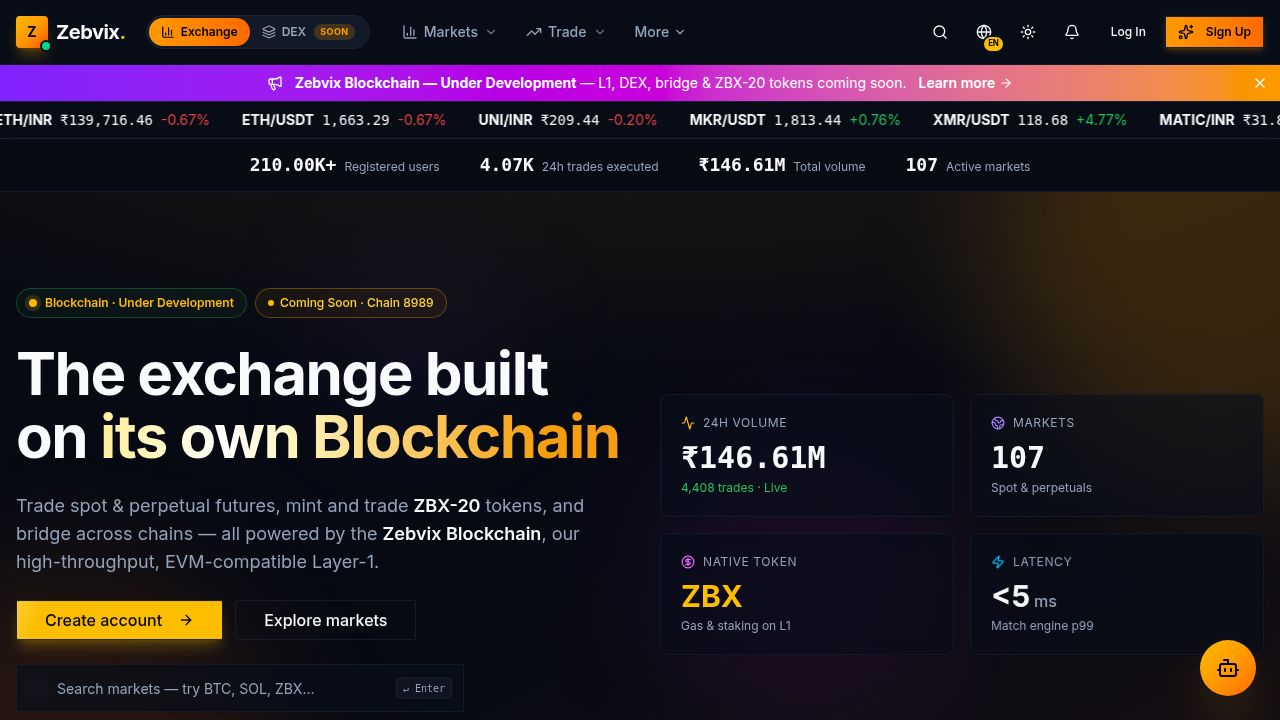
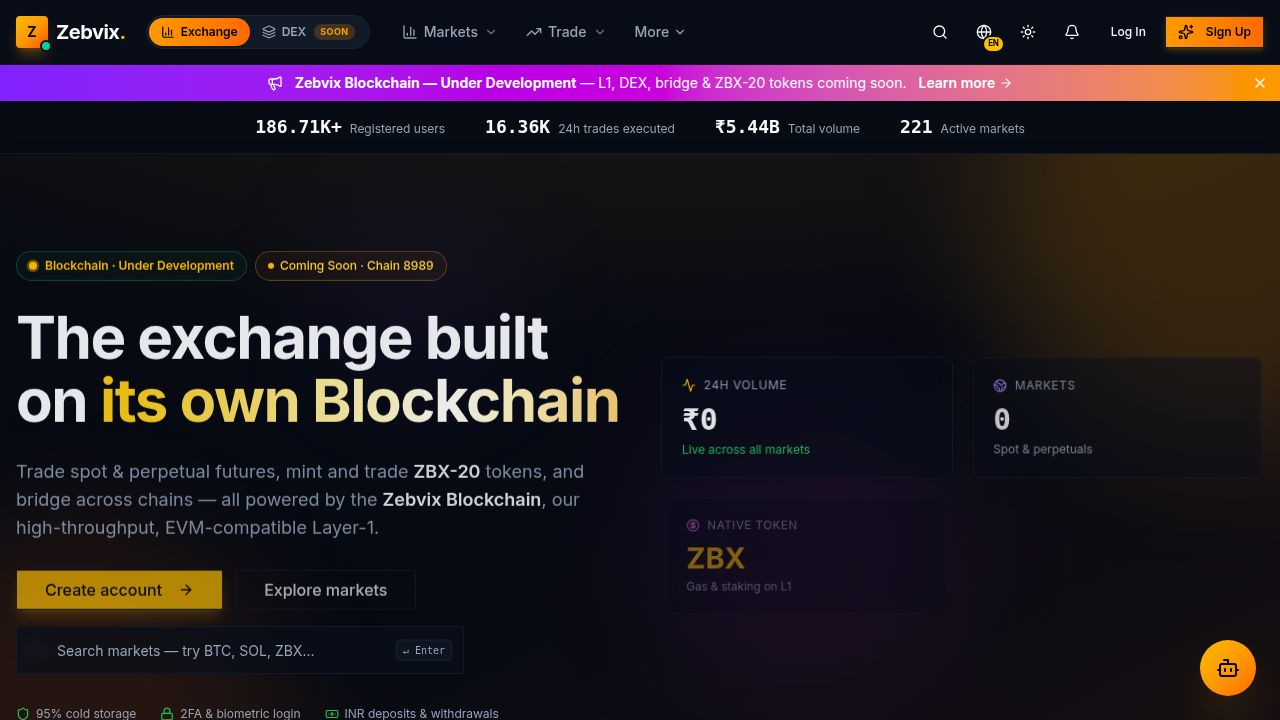
Improve website text and reduce font sizes across various pages
Refactor multiple components and pages to adjust font sizes, improve clarity of descriptions, and correct minor grammatical errors.

Replit-Commit-Author: Agent
Replit-Commit-Session-Id: cbc39002-cd99-450e-a1d9-85cc0e3cfcaf
Replit-Commit-Checkpoint-Type: full_checkpoint
Replit-Commit-Event-Id: b7019e5d-80db-40c1-a172-f2768de275a7
Replit-Commit-Screenshot-Url: https://storage.googleapis.com/screenshot-production-us-central1/4c58e926-79d0-4f1e-a563-accf7990887f/cbc39002-cd99-450e-a1d9-85cc0e3cfcaf/Y95degF
Replit-Helium-Checkpoint-Created: true

diff --git a/artifacts/user-portal/src/pages/Web3.tsx b/artifacts/user-portal/src/pages/Web3.tsx
@@ -173,7 +173,7 @@ export default function Web3Page() {
             <span className="px-2 py-0.5 rounded-full text-[10px] font-bold bg-amber-400/20 text-amber-400 border border-amber-400/30">PREVIEW</span>
           </div>
           <p className="text-amber-300/70 text-xs leading-relaxed">
-            Web3 swap, bridge and on-chain wallets are running in <strong className="text-amber-300">testnet-only</strong> mode — no real funds. All quotes and transactions are simulated. Exchange spot &amp; futures trading is fully live with real balances.
+            Web3 swap and bridge are in <strong className="text-amber-300">testnet preview</strong> — no real funds are used. Spot and futures trading is fully live.
           </p>
         </div>
       </div>
@@ -181,7 +181,7 @@ export default function Web3Page() {
       <PageHeader
         eyebrow="Multi-Chain"
         title="Web3 Trading"
-        description="8 chains par swap aur bridge: Ethereum, BSC, Solana, Polygon, Arbitrum, Avalanche, Optimism, Base."
+        description="Swap and bridge across 8 chains: Ethereum, BSC, Solana, Polygon, Arbitrum, Avalanche, Optimism, Base."
       />
 
       {/* Network strip */}
@@ -390,7 +390,7 @@ export default function Web3Page() {
               <Button className="w-full" disabled={!user || !newWallet.address || addWallet.isPending} onClick={() => addWallet.mutate()} data-testid="btn-add-wallet">
                 {addWallet.isPending ? "Adding…" : "Add Wallet"}
               </Button>
-              <p className="text-[10px] text-muted-foreground">Only public address store hoti hai — private key kabhi nahi puchi jati.</p>
+              <p className="text-[10px] text-muted-foreground">Only your public address is stored — your private key is never requested.</p>
             </div>
           </SectionCard>
         </TabsContent>

diff --git a/artifacts/user-portal/src/pages/Earn.tsx b/artifacts/user-portal/src/pages/Earn.tsx
@@ -212,7 +212,7 @@ export default function Earn() {
       <PageHeader
         eyebrow="Passive Income"
         title="Zebvix Earn"
-        description="Put your idle crypto to work. Flexible savings and locked products — interest accrues every second."
+        description="Flexible and locked savings products — earn passive yield on your idle crypto."
         actions={
           <Badge className="bg-emerald-500/15 text-emerald-400 border-emerald-500/30 text-xs font-bold uppercase">
             <Star className="h-3 w-3 mr-1 fill-current" /> Up to 18.5% APY
@@ -235,7 +235,7 @@ export default function Earn() {
           value={user ? fmtNum(summary?.totalPendingYield ?? 0, 6) : "—"}
           icon={Activity}
           loading={summaryQ.isLoading}
-          hint="Accruing every second"
+          hint="Accrued continuously"
         />
         <PremiumStatCard
           title="Active Positions"

diff --git a/artifacts/user-portal/src/pages/Home.tsx b/artifacts/user-portal/src/pages/Home.tsx
@@ -806,7 +806,7 @@ export default function Home() {
               </span>
             </div>
 
-            <h1 className="fade-in-up delay-75 text-4xl sm:text-5xl lg:text-6xl font-extrabold tracking-tight leading-[1.05]">
+            <h1 className="fade-in-up delay-75 text-3xl sm:text-4xl lg:text-5xl font-extrabold tracking-tight leading-[1.05]">
               The exchange built on{" "}
               <span className="shimmer-text">its own Blockchain</span>
             </h1>
@@ -1322,7 +1322,7 @@ export default function Home() {
             </span>
             Blockchain Under Development · Coming Soon
           </div>
-          <h2 className="text-2xl sm:text-4xl lg:text-5xl font-extrabold tracking-tight leading-[1.1]">
+          <h2 className="text-xl sm:text-3xl lg:text-4xl font-extrabold tracking-tight leading-[1.1]">
             Ready to trade on a{" "}
             <span className="shimmer-text">real Blockchain?</span>
           </h2>

diff --git a/artifacts/user-portal/src/pages/Invite.tsx b/artifacts/user-portal/src/pages/Invite.tsx
@@ -110,7 +110,7 @@ export default function Invite() {
                 <Badge className="bg-amber-500/20 text-amber-300 border-amber-500/40 mb-3 backdrop-blur-sm" data-testid="badge-program">
                   <Sparkles className="h-3 w-3 mr-1" /> Affiliate Program
                 </Badge>
-                <h1 className="text-3xl md:text-5xl font-bold leading-tight tracking-tight text-white drop-shadow-2xl">
+                <h1 className="text-2xl md:text-4xl font-bold leading-tight tracking-tight text-white drop-shadow-2xl">
                   Earn <span className="bg-gradient-to-r from-amber-300 via-amber-400 to-orange-400 bg-clip-text text-transparent">{COMMISSION_PCT}% commission</span><br />
                   on every friend's trade
                 </h1>
@@ -533,7 +533,7 @@ function StepCard({
   };
   return (
     <Card className="p-5 border-border relative overflow-hidden">
-      <div className="absolute top-3 right-4 text-5xl font-black text-zinc-900 select-none">{n}</div>
+      <div className="absolute top-3 right-4 text-4xl font-black text-zinc-900 select-none">{n}</div>
       <div className={`relative w-10 h-10 rounded-xl border flex items-center justify-center ${accents[accent]}`}>
         {icon}
       </div>

diff --git a/artifacts/user-portal/src/pages/PortfolioPro.tsx b/artifacts/user-portal/src/pages/PortfolioPro.tsx
@@ -80,7 +80,7 @@ export default function PortfolioPro() {
       <PageHeader
         eyebrow="Pro Analytics"
         title="Portfolio PRO"
-        description="Equity curve, allocation breakdown, aur Indian crypto tax report — sab ek jagah."
+        description="Equity curve, allocation breakdown, and Indian crypto tax report — all in one place."
         actions={
           summary?.inrRate ? (
             <Badge variant="outline" className="text-xs font-mono text-muted-foreground">
@@ -345,7 +345,7 @@ function TaxReportPanel() {
     <div className="space-y-4">
       <SectionCard
         title="Indian Crypto Tax Report (FY)"
-        description="1% TDS har sell pe (Sec 194S) + 30% flat tax profits pe (Sec 115BBH)."
+        description="1% TDS on every sell (Sec 194S) + 30% flat tax on profits (Sec 115BBH)."
         actions={
           <div className="flex items-center gap-2">
             <Badge variant="outline" className="text-[10px] font-mono text-muted-foreground hidden sm:flex">

diff --git a/artifacts/user-portal/src/components/LegalShell.tsx b/artifacts/user-portal/src/components/LegalShell.tsx
@@ -56,7 +56,7 @@ export function LegalShell({
           <FileText className="h-3.5 w-3.5" />
           {eyebrow}
         </div>
-        <h1 className="text-3xl md:text-5xl font-extrabold tracking-tight mb-3">{title}</h1>
+        <h1 className="text-2xl md:text-4xl font-extrabold tracking-tight mb-3">{title}</h1>
         <p className="text-base md:text-lg text-muted-foreground max-w-3xl leading-relaxed">{subtitle}</p>
         <div className="flex flex-wrap items-center gap-2 mt-5">
           <Badge variant="secondary" className="font-medium">Effective {effectiveDate}</Badge>

diff --git a/artifacts/user-portal/src/pages/About.tsx b/artifacts/user-portal/src/pages/About.tsx
@@ -175,7 +175,7 @@ export default function About() {
           <Badge variant="outline" className="mb-4 bg-background/50">
             <Sparkles className="h-3 w-3 mr-1.5 text-primary" /> About Zebvix Exchange
           </Badge>
-          <h1 className="text-4xl md:text-6xl font-extrabold tracking-tight leading-[1.05] mb-5">
+          <h1 className="text-3xl md:text-5xl font-extrabold tracking-tight leading-[1.05] mb-5">
             India's pro-grade crypto exchange,{" "}
             <span className="bg-gradient-to-r from-amber-400 to-orange-500 bg-clip-text text-transparent">
               built on its own L1

diff --git a/artifacts/user-portal/src/pages/Announcements.tsx b/artifacts/user-portal/src/pages/Announcements.tsx
@@ -139,7 +139,7 @@ export default function AnnouncementsPage() {
       <PageHeader
         eyebrow="Promotion"
         title="Announcements"
-        description="Latest news, product updates, security alerts aur platform announcements ek jagah."
+        description="Latest product updates, security alerts, and platform announcements — all in one place."
         actions={<StatusPill status="active">{items.length} updates</StatusPill>}
       />
 

diff --git a/artifacts/user-portal/src/pages/ApiDocs.tsx b/artifacts/user-portal/src/pages/ApiDocs.tsx
@@ -355,7 +355,7 @@ export default function ApiDocs() {
           <Badge variant="outline" className="mb-3 bg-background/50">
             <Code2 className="h-3 w-3 mr-1.5 text-primary" /> API Documentation
           </Badge>
-          <h1 className="text-3xl md:text-5xl font-extrabold tracking-tight mb-4 leading-tight">
+          <h1 className="text-2xl md:text-4xl font-extrabold tracking-tight mb-4 leading-tight">
             Build on Zebvix.{" "}
             <span className="bg-gradient-to-r from-sky-400 to-cyan-400 bg-clip-text text-transparent">
               Trade programmatically.

diff --git a/artifacts/user-portal/src/pages/Blog.tsx b/artifacts/user-portal/src/pages/Blog.tsx
@@ -82,7 +82,7 @@ export default function Blog() {
         <Badge variant="outline" className="mb-3 bg-background/50">
           <BookOpen className="h-3 w-3 mr-1.5 text-primary" /> Blog
         </Badge>
-        <h1 className="text-3xl md:text-5xl font-extrabold tracking-tight mb-4 leading-tight">
+        <h1 className="text-2xl md:text-4xl font-extrabold tracking-tight mb-4 leading-tight">
           Research, product news, and{" "}
           <span className="bg-gradient-to-r from-primary to-amber-400 bg-clip-text text-transparent">
             crypto education

diff --git a/artifacts/user-portal/src/pages/Careers.tsx b/artifacts/user-portal/src/pages/Careers.tsx
@@ -78,7 +78,7 @@ export default function Careers() {
           <Badge variant="outline" className="mb-3 bg-background/50">
             <Briefcase className="h-3 w-3 mr-1.5 text-primary" /> Careers at Zebvix
           </Badge>
-          <h1 className="text-3xl md:text-5xl font-extrabold tracking-tight mb-4 leading-tight">
+          <h1 className="text-2xl md:text-4xl font-extrabold tracking-tight mb-4 leading-tight">
             Build the future of finance{" "}
             <span className="bg-gradient-to-r from-primary to-amber-400 bg-clip-text text-transparent">
               from India.

diff --git a/artifacts/user-portal/src/pages/Contact.tsx b/artifacts/user-portal/src/pages/Contact.tsx
@@ -80,7 +80,7 @@ export default function Contact() {
           <Badge variant="outline" className="mb-3 bg-background/50">
             <MessageSquare className="h-3 w-3 mr-1.5 text-primary" /> Get in touch
           </Badge>
-          <h1 className="text-3xl md:text-5xl font-extrabold tracking-tight mb-4 leading-tight">
+          <h1 className="text-2xl md:text-4xl font-extrabold tracking-tight mb-4 leading-tight">
             We'd love to{" "}
             <span className="bg-gradient-to-r from-primary to-amber-400 bg-clip-text text-transparent">
               hear from you.